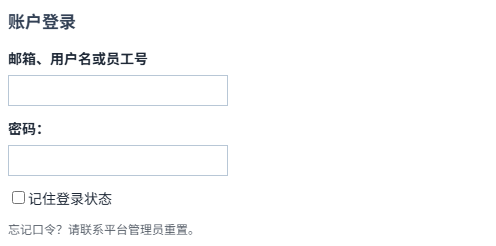
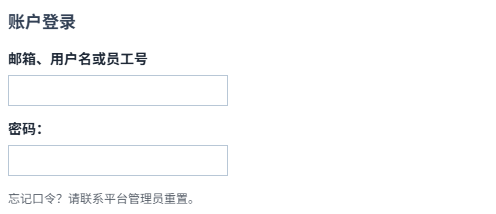
feat(signin): 登录卡底部归拢为一行——「记住登录状态」靠左、登录按钮靠右
勾选行与按钮行都移出正常流并底对齐（勾选 left:18px / 按钮 right:18px / 同 bottom:18px），字段与提示行留在上方，中部留白成为表单呼吸区。纯 CSS 改动，6 套主题同步，无需重新编译程序集。

实现注意：按钮行原本是 left:18px，若只追加一条 right:18px 的同名规则，left 与 right 会同时生效把按钮拉成整宽 —— 故直接改原规则而非新增。

验证：实站视口截图确认底部一行成立；两卡高度仍精确一致（354px = 354px）；文档站 8 张图按最终布局重拍（临时账号拍完即删，残留 0）；L0 54/0/0 全绿。

diff --git a/src/Portal/App_Themes/EnterpriseDark/Default.css b/src/Portal/App_Themes/EnterpriseDark/Default.css
@@ -2054,8 +2054,9 @@ body.portal-tab-1 .portal-pane-left .portal-module {
 }
 body.portal-tab-1 .portal-pane-left .portal-action-row {
     position: absolute;
-    left: 18px;
+    right: 18px;
     bottom: 18px;
+    margin: 0;
 }
 /* 公告卡"降低"：条目内距与行高收紧，两条公告的卡片高度下降，与加高后的登录卡齐平 */
 body.portal-tab-1 .portal-pane-content .portal-content-list-item {
@@ -2073,4 +2074,12 @@ body.portal-tab-1 .portal-pane-left .portal-signin-note {
     font-size: 12px;
     line-height: 1.6;
     opacity: .75;
+}
+/* 登录卡底部一行：「记住登录状态」靠左、登录按钮靠右，同一行底对齐。
+   字段与提示行留在上方，中部留白作为表单呼吸区；两行移出正常流后不再占据正文高度。 */
+body.portal-tab-1 .portal-pane-left .portal-checkline {
+    position: absolute;
+    left: 18px;
+    bottom: 18px;
+    margin: 0;
 }

diff --git a/src/Portal/App_Themes/EnterpriseLight/Default.css b/src/Portal/App_Themes/EnterpriseLight/Default.css
@@ -2057,8 +2057,9 @@ body.portal-tab-1 .portal-pane-left .portal-module {
 }
 body.portal-tab-1 .portal-pane-left .portal-action-row {
     position: absolute;
-    left: 18px;
+    right: 18px;
     bottom: 18px;
+    margin: 0;
 }
 /* 公告卡"降低"：条目内距与行高收紧，两条公告的卡片高度下降，与加高后的登录卡齐平 */
 body.portal-tab-1 .portal-pane-content .portal-content-list-item {
@@ -2076,4 +2077,12 @@ body.portal-tab-1 .portal-pane-left .portal-signin-note {
     font-size: 12px;
     line-height: 1.6;
     opacity: .75;
+}
+/* 登录卡底部一行：「记住登录状态」靠左、登录按钮靠右，同一行底对齐。
+   字段与提示行留在上方，中部留白作为表单呼吸区；两行移出正常流后不再占据正文高度。 */
+body.portal-tab-1 .portal-pane-left .portal-checkline {
+    position: absolute;
+    left: 18px;
+    bottom: 18px;
+    margin: 0;
 }

diff --git a/src/Portal/App_Themes/OaDark/Default.css b/src/Portal/App_Themes/OaDark/Default.css
@@ -2054,8 +2054,9 @@ body.portal-tab-1 .portal-pane-left .portal-module {
 }
 body.portal-tab-1 .portal-pane-left .portal-action-row {
     position: absolute;
-    left: 18px;
+    right: 18px;
     bottom: 18px;
+    margin: 0;
 }
 /* 公告卡"降低"：条目内距与行高收紧，两条公告的卡片高度下降，与加高后的登录卡齐平 */
 body.portal-tab-1 .portal-pane-content .portal-content-list-item {
@@ -2073,4 +2074,12 @@ body.portal-tab-1 .portal-pane-left .portal-signin-note {
     font-size: 12px;
     line-height: 1.6;
     opacity: .75;
+}
+/* 登录卡底部一行：「记住登录状态」靠左、登录按钮靠右，同一行底对齐。
+   字段与提示行留在上方，中部留白作为表单呼吸区；两行移出正常流后不再占据正文高度。 */
+body.portal-tab-1 .portal-pane-left .portal-checkline {
+    position: absolute;
+    left: 18px;
+    bottom: 18px;
+    margin: 0;
 }

diff --git a/src/Portal/App_Themes/OaLight/Default.css b/src/Portal/App_Themes/OaLight/Default.css
@@ -2057,8 +2057,9 @@ body.portal-tab-1 .portal-pane-left .portal-module {
 }
 body.portal-tab-1 .portal-pane-left .portal-action-row {
     position: absolute;
-    left: 18px;
+    right: 18px;
     bottom: 18px;
+    margin: 0;
 }
 /* 公告卡"降低"：条目内距与行高收紧，两条公告的卡片高度下降，与加高后的登录卡齐平 */
 body.portal-tab-1 .portal-pane-content .portal-content-list-item {
@@ -2076,4 +2077,12 @@ body.portal-tab-1 .portal-pane-left .portal-signin-note {
     font-size: 12px;
     line-height: 1.6;
     opacity: .75;
+}
+/* 登录卡底部一行：「记住登录状态」靠左、登录按钮靠右，同一行底对齐。
+   字段与提示行留在上方，中部留白作为表单呼吸区；两行移出正常流后不再占据正文高度。 */
+body.portal-tab-1 .portal-pane-left .portal-checkline {
+    position: absolute;
+    left: 18px;
+    bottom: 18px;
+    margin: 0;
 }

diff --git a/src/Portal/App_Themes/StateClassicDark/Default.css b/src/Portal/App_Themes/StateClassicDark/Default.css
@@ -2064,8 +2064,9 @@ body.portal-tab-1 .portal-pane-left .portal-module {
 }
 body.portal-tab-1 .portal-pane-left .portal-action-row {
     position: absolute;
-    left: 18px;
+    right: 18px;
     bottom: 18px;
+    margin: 0;
 }
 /* 公告卡"降低"：条目内距与行高收紧，两条公告的卡片高度下降，与加高后的登录卡齐平 */
 body.portal-tab-1 .portal-pane-content .portal-content-list-item {
@@ -2083,4 +2084,12 @@ body.portal-tab-1 .portal-pane-left .portal-signin-note {
     font-size: 12px;
     line-height: 1.6;
     opacity: .75;
+}
+/* 登录卡底部一行：「记住登录状态」靠左、登录按钮靠右，同一行底对齐。
+   字段与提示行留在上方，中部留白作为表单呼吸区；两行移出正常流后不再占据正文高度。 */
+body.portal-tab-1 .portal-pane-left .portal-checkline {
+    position: absolute;
+    left: 18px;
+    bottom: 18px;
+    margin: 0;
 }

diff --git a/src/Portal/App_Themes/StateClassicLight/Default.css b/src/Portal/App_Themes/StateClassicLight/Default.css
@@ -2067,8 +2067,9 @@ body.portal-tab-1 .portal-pane-left .portal-module {
 }
 body.portal-tab-1 .portal-pane-left .portal-action-row {
     position: absolute;
-    left: 18px;
+    right: 18px;
     bottom: 18px;
+    margin: 0;
 }
 /* 公告卡"降低"：条目内距与行高收紧，两条公告的卡片高度下降，与加高后的登录卡齐平 */
 body.portal-tab-1 .portal-pane-content .portal-content-list-item {
@@ -2086,4 +2087,12 @@ body.portal-tab-1 .portal-pane-left .portal-signin-note {
     font-size: 12px;
     line-height: 1.6;
     opacity: .75;
+}
+/* 登录卡底部一行：「记住登录状态」靠左、登录按钮靠右，同一行底对齐。
+   字段与提示行留在上方，中部留白作为表单呼吸区；两行移出正常流后不再占据正文高度。 */
+body.portal-tab-1 .portal-pane-left .portal-checkline {
+    position: absolute;
+    left: 18px;
+    bottom: 18px;
+    margin: 0;
 }

diff --git a/CHANGELOG.md b/CHANGELOG.md
@@ -14,6 +14,7 @@
 - **文档站首页截图同步重拍**：8 张实拍图（中文 / 英文各 4 张）在新布局下重拍，临时账号拍完即删（残留 0）。
 - **第一行两卡等高**：按产品意见"增加登录区的高度达成一致、公告区适当拉宽并降低"，登录卡两个字段由并排改为**纵排**（卡片自然加高）、**登录按钮贴卡片底部**（表单呼吸区留在中部）、公告卡宽度 40% → **44%** 并收紧条目内距与行高。实测两卡高度**精确一致（354px = 354px）**；`min-height` 作用在内容盒，公告条数变化后需复核该值（已在主题 CSS 注释中写明）。
 - **登录卡增加一行提示**：`忘记口令？请联系平台管理员重置。`（英文界面为对应英文文案）。该提示只陈述既有事实——帮助模块本就写着"忘记密码请联系平台管理员重置"——不含任何请求参数或动态内容；文案由新资源键 `Signin_forgotPasswordHint` 提供（中 / 英 / 中性三份），界面语言切换时随之切换。
+- **登录卡底部归拢为一行**：「记住登录状态」靠左、登录按钮靠右，同一行底对齐；两行移出正常流后，字段与提示行留在上方，中部留白成为表单的呼吸区。纯 CSS 改动（6 套主题同步），两卡等高不受影响（实测仍为 354px = 354px）。
 - **文档站首页截图改用视口截图**：侧栏是 `position: fixed` 定位，浏览器渲染**整页截图**时只按一屏绘制 fixed 元素 —— 图上会出现"侧栏在页面中部断掉"的假象（实站侧栏是通底的：`position: fixed; top: 0; bottom: 0`）。截图产线因此改为视口截图，首页图视口高 1200px。
 
 ### 修复
